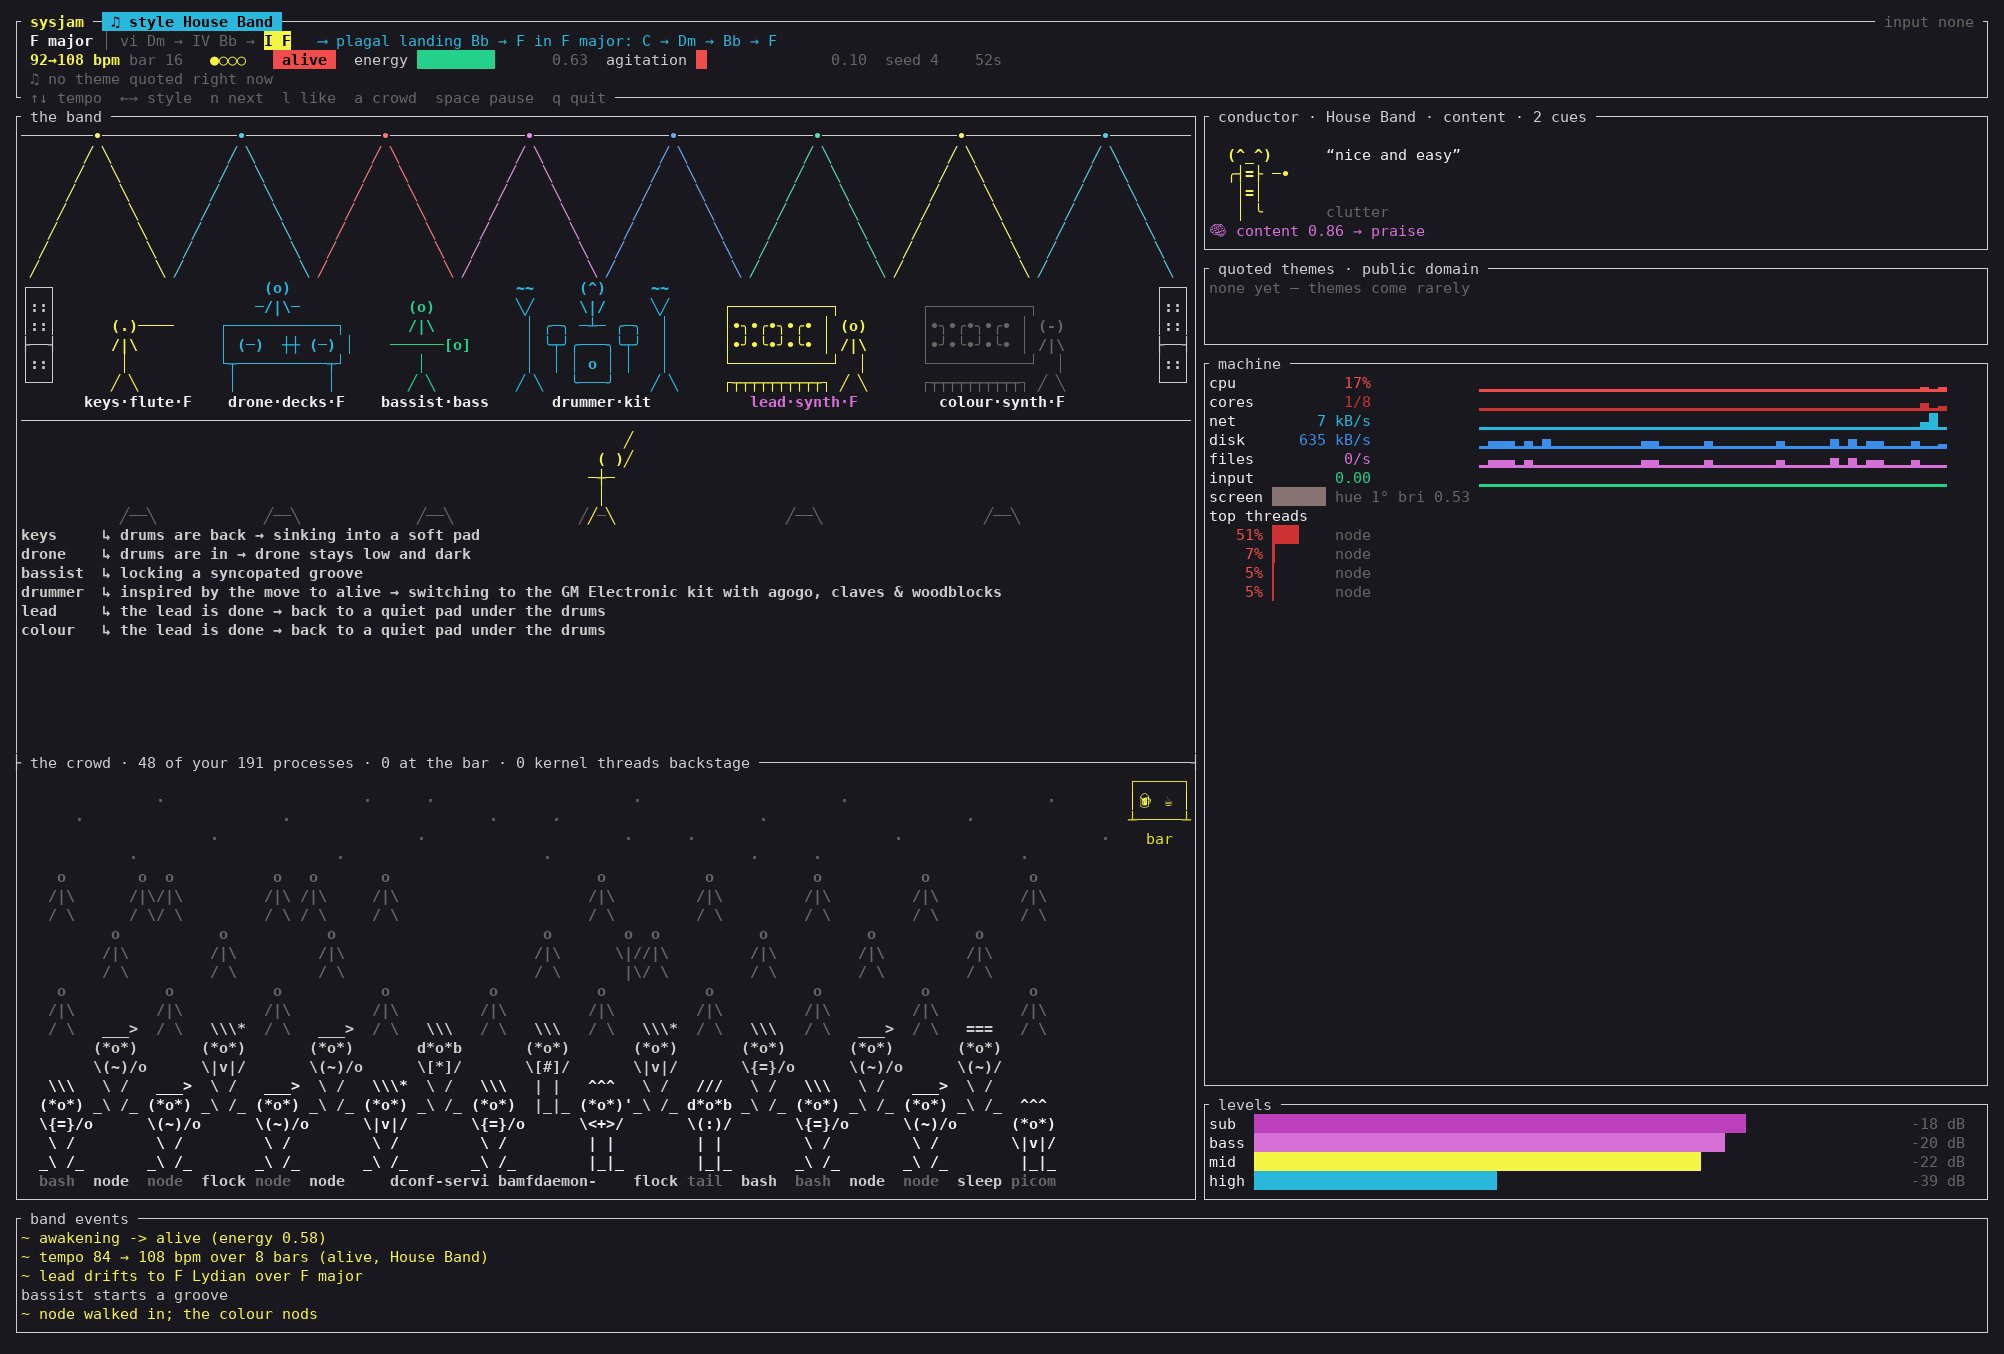
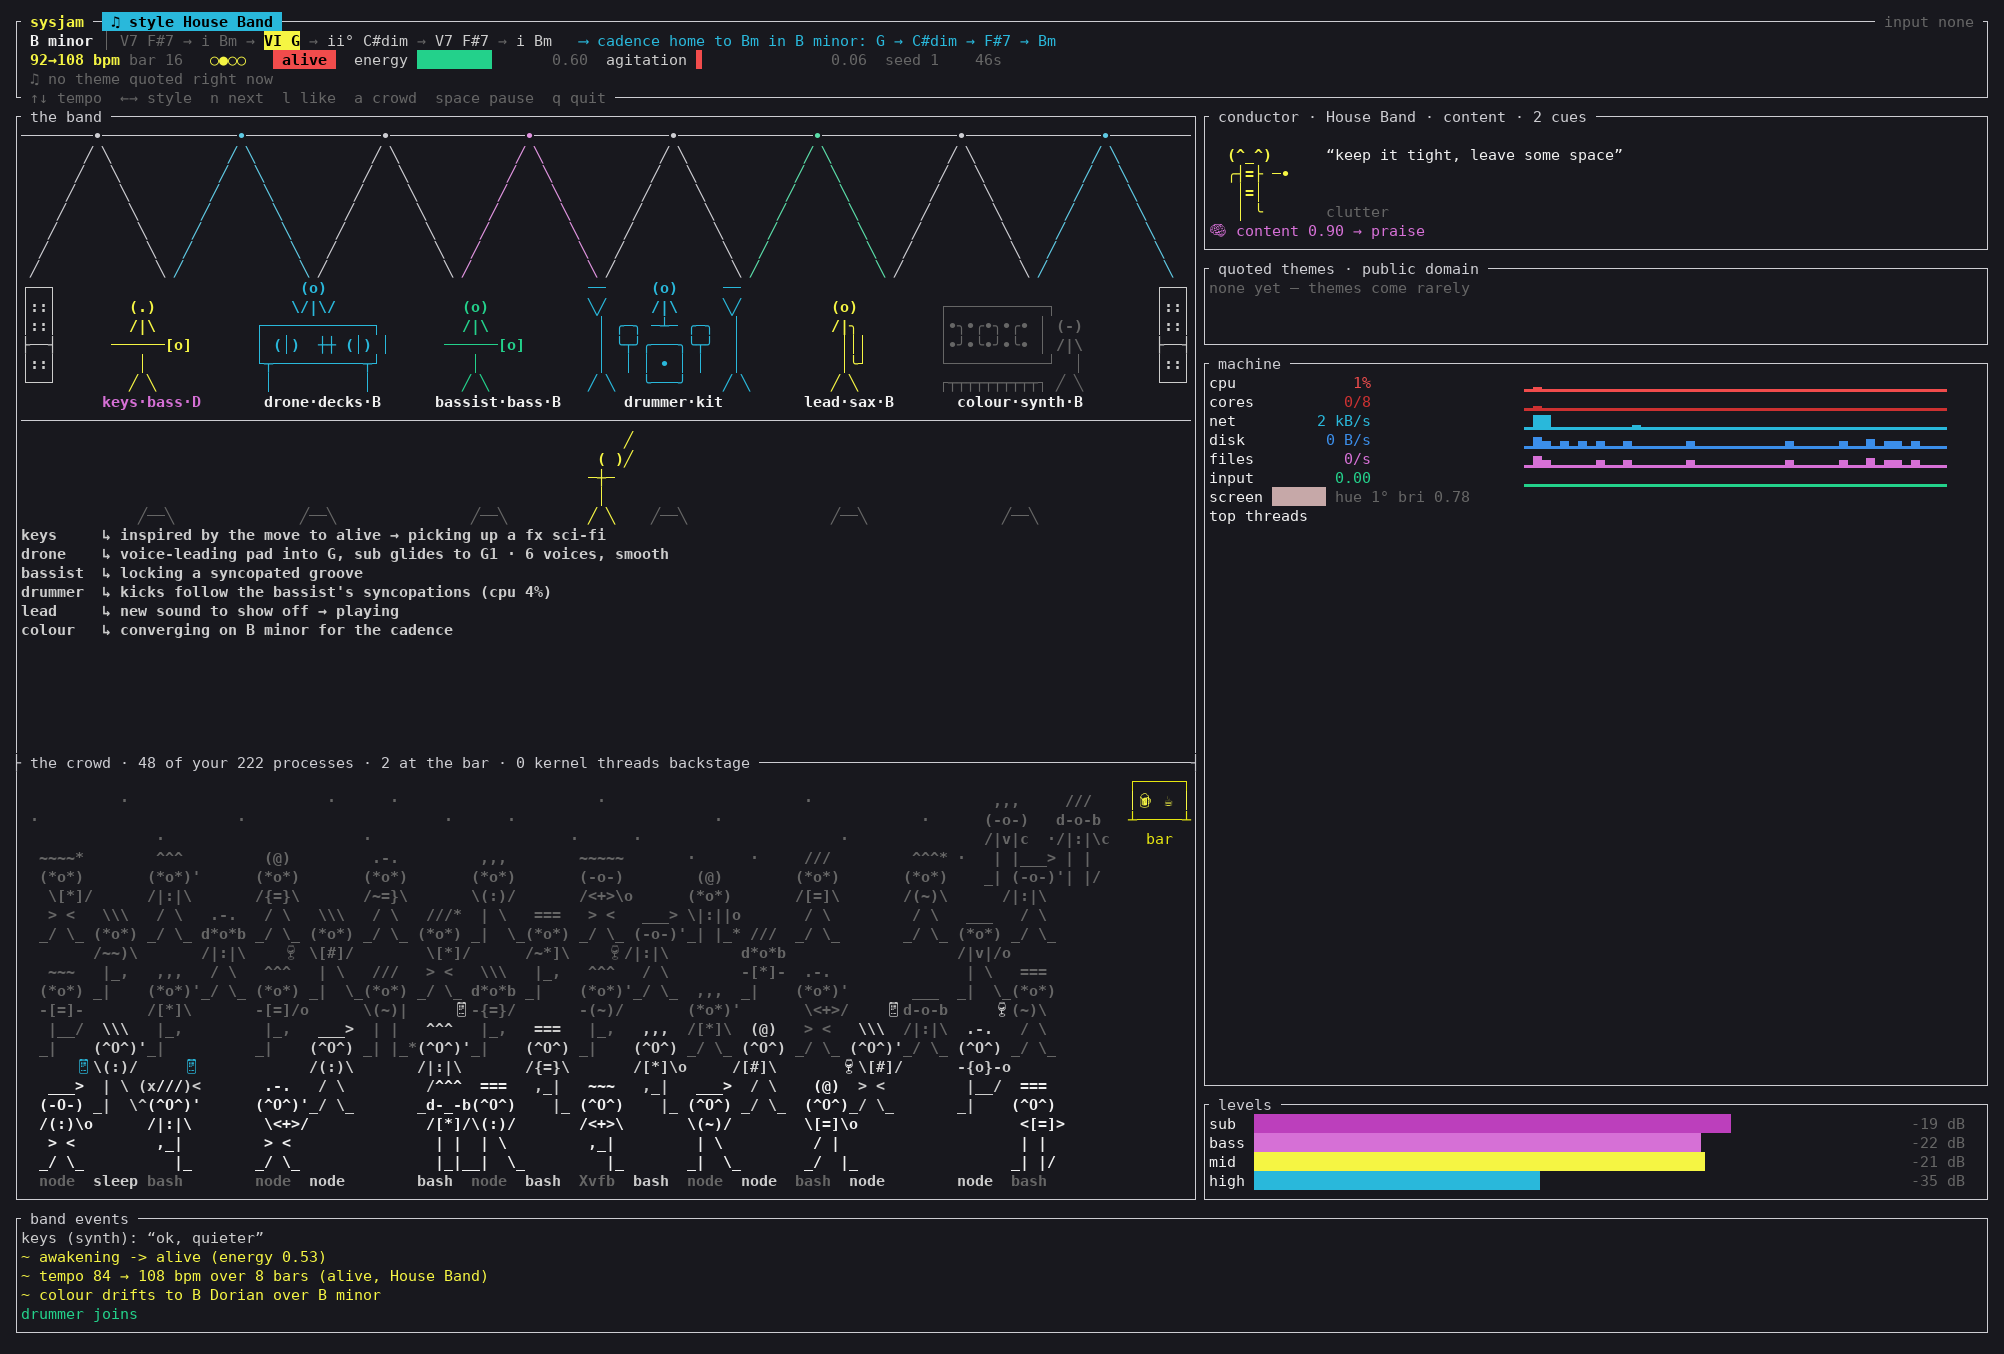
Crowd: held props only in the front three rows, 220ms refresh for 5+ rows; refresh crowd screenshots

diff --git a/src/ui.rs b/src/ui.rs
@@ -1078,7 +1078,7 @@ fn anim_cells(b: &BandSnap, anim: &mut Anim, ctx: &Ctx) -> (Vec<(u16, u16, Strin
     // number of colour runs doesn't shift the musicians' cells
     if let Some((r, fw)) = anim.aud {
         let beat = ctx.pos.map(|p| p.beats().floor() as i64).unwrap_or(0);
-        if anim.crowd_rows.is_empty() || anim.crowd_t.elapsed() >= Duration::from_millis(if anim.floor.rows >= 4 { 170 } else { 120 }) || beat != anim.crowd_beat || anim.crowd_rows[0].len() != fw {
+        if anim.crowd_rows.is_empty() || anim.crowd_t.elapsed() >= Duration::from_millis(if anim.floor.rows >= 5 { 220 } else if anim.floor.rows >= 4 { 170 } else { 120 }) || beat != anim.crowd_beat || anim.crowd_rows[0].len() != fw {
             let g = crowd_grid(b, anim, ctx, fw);
             let n0 = delta.len();
             grid_delta(&anim.crowd_rows, &g, r.x, r.y, false, &mut delta);
@@ -1605,8 +1605,9 @@ fn crowd_grid_(b: &BandSnap, anim: &mut Anim, ctx: &Ctx, fw: usize) -> Vec<Vec<C
                 }
             }
         }
-        // something held up overhead, swaying on the beat
-        {
+        // something held up overhead, swaying on the beat (not from the far back rows: a
+        // sea of phones would hide the faces)
+        if depth <= 2 {
             if let Some((it, sway)) = item(&look) {
                 let (gl, w) = it.glyph(ascii, emoji);
                 let y = y0 + top_row - 1;
